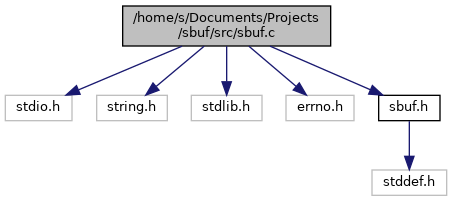
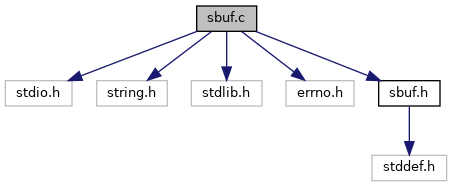
small theme change and making sure it gets full implementation details in dox

diff --git a/html/navtreeindex0.js b/html/navtreeindex0.js
@@ -1,9 +1,58 @@
 var NAVTREEINDEX0 =
 {
+"annotated.html":[1,0],
+"classes.html":[1,1],
+"files.html":[2,0],
+"functions.html":[1,2,0],
+"functions_vars.html":[1,2,1],
+"globals.html":[2,1,0],
+"globals_defs.html":[2,1,3],
+"globals_func.html":[2,1,1],
+"globals_type.html":[2,1,2],
 "index.html":[],
 "index.html#autotoc_md1":[0],
 "index.html#autotoc_md2":[0,0],
 "index.html#autotoc_md3":[0,1],
 "index.html#autotoc_md4":[0,2],
-"pages.html":[]
+"pages.html":[],
+"sbuf_8c.html":[2,0,0],
+"sbuf_8c.html#a0f0993a140a30062a6a9d1b83278deac":[2,0,0,14],
+"sbuf_8c.html#a121c455cc37aaf58b7d702cdeac4d3a4":[2,0,0,11],
+"sbuf_8c.html#a1b945c8cd7f9593f1eb296d722a9eb61":[2,0,0,5],
+"sbuf_8c.html#a2197c035a2f0e9262b010da37ea15529":[2,0,0,15],
+"sbuf_8c.html#a3024ccd4a9af5109d24e6c57565d74a1":[2,0,0,0],
+"sbuf_8c.html#a38f9811bf4346e545737b0d03cf804d9":[2,0,0,9],
+"sbuf_8c.html#a3bff446f6d5793b6ffbd3be43502f13d":[2,0,0,12],
+"sbuf_8c.html#a3fae5b743bcb995335884913d7bee8c6":[2,0,0,13],
+"sbuf_8c.html#a5213bf2df22b0def06315df63b6e3284":[2,0,0,2],
+"sbuf_8c.html#a67bf9ff4b6ae129499673d3071f96ecd":[2,0,0,8],
+"sbuf_8c.html#a9e85e5beeaafe1275e1c329186ac4fdd":[2,0,0,1],
+"sbuf_8c.html#ac51c3760535684841d194e60c383e1d0":[2,0,0,3],
+"sbuf_8c.html#ac6b96c08bbe9b6d46a0e89597e62229a":[2,0,0,7],
+"sbuf_8c.html#ad0bdc83560191562dae2b78ecea40d7e":[2,0,0,6],
+"sbuf_8c.html#ae435ba9ec44080bab25c1ec8bcd7fe55":[2,0,0,4],
+"sbuf_8c.html#ae43e253921f7a877cc9dc4d25608a10c":[2,0,0,10],
+"sbuf_8c_source.html":[2,0,0],
+"sbuf_8h.html":[2,0,1],
+"sbuf_8h.html#a0f0993a140a30062a6a9d1b83278deac":[2,0,1,15],
+"sbuf_8h.html#a121c455cc37aaf58b7d702cdeac4d3a4":[2,0,1,12],
+"sbuf_8h.html#a18ed3e3dde4d41bdfd0cb49afcd0f08f":[2,0,1,1],
+"sbuf_8h.html#a1b945c8cd7f9593f1eb296d722a9eb61":[2,0,1,6],
+"sbuf_8h.html#a2197c035a2f0e9262b010da37ea15529":[2,0,1,16],
+"sbuf_8h.html#a38f9811bf4346e545737b0d03cf804d9":[2,0,1,10],
+"sbuf_8h.html#a3fae5b743bcb995335884913d7bee8c6":[2,0,1,14],
+"sbuf_8h.html#a5213bf2df22b0def06315df63b6e3284":[2,0,1,3],
+"sbuf_8h.html#a67bf9ff4b6ae129499673d3071f96ecd":[2,0,1,9],
+"sbuf_8h.html#a7d39d1e4de7084c190e3526a0eccffc8":[2,0,1,5],
+"sbuf_8h.html#a98e49d2682377da64f05326ce6507a6c":[2,0,1,13],
+"sbuf_8h.html#a9e85e5beeaafe1275e1c329186ac4fdd":[2,0,1,2],
+"sbuf_8h.html#ac6b96c08bbe9b6d46a0e89597e62229a":[2,0,1,8],
+"sbuf_8h.html#ad0bdc83560191562dae2b78ecea40d7e":[2,0,1,7],
+"sbuf_8h.html#adbc45909edb3b9d27d0a766a3efa3b2d":[2,0,1,4],
+"sbuf_8h.html#ae43e253921f7a877cc9dc4d25608a10c":[2,0,1,11],
+"sbuf_8h_source.html":[2,0,1],
+"structsbuf.html":[1,0,0],
+"structsbuf.html#a1acdda4d02d45a8caac3b29393bec478":[1,0,0,0],
+"structsbuf.html#ab76e77c25188e04830319d8479866b42":[1,0,0,1],
+"structsbuf.html#adc79a68252da5d02507e6a089e0dbd22":[1,0,0,2]
 };

diff --git a/html/sbuf_8h.html b/html/sbuf_8h.html
@@ -6,7 +6,7 @@
 <meta http-equiv="X-UA-Compatible" content="IE=9"/>
 <meta name="generator" content="Doxygen 1.8.17"/>
 <meta name="viewport" content="width=device-width, initial-scale=1"/>
-<title>sbuf: /home/s/Documents/Projects/sbuf/src/sbuf.h File Reference</title>
+<title>sbuf: sbuf.h File Reference</title>
 <link href="tabs.css" rel="stylesheet" type="text/css"/>
 <script type="text/javascript" src="jquery.js"></script>
 <script type="text/javascript" src="dynsections.js"></script>
@@ -100,19 +100,19 @@ $(document).ready(function(){initNavTree('sbuf_8h.html',''); initResizable(); })
 </div><div class="textblock"><div class="dynheader">
 Include dependency graph for sbuf.h:</div>
 <div class="dyncontent">
-<div class="center"><img src="sbuf_8h__incl.png" border="0" usemap="#_2home_2s_2Documents_2Projects_2sbuf_2src_2sbuf_8h" alt=""/></div>
-<map name="_2home_2s_2Documents_2Projects_2sbuf_2src_2sbuf_8h" id="_2home_2s_2Documents_2Projects_2sbuf_2src_2sbuf_8h">
-<area shape="rect" title=" " alt="" coords="5,5,213,47"/>
-<area shape="rect" title=" " alt="" coords="72,95,147,121"/>
+<div class="center"><img src="sbuf_8h__incl.png" border="0" usemap="#sbuf_8h" alt=""/></div>
+<map name="sbuf_8h" id="sbuf_8h">
+<area shape="rect" title=" " alt="" coords="12,5,73,32"/>
+<area shape="rect" title=" " alt="" coords="5,80,80,107"/>
 </map>
 </div>
 </div><div class="textblock"><div class="dynheader">
 This graph shows which files directly or indirectly include this file:</div>
 <div class="dyncontent">
-<div class="center"><img src="sbuf_8h__dep__incl.png" border="0" usemap="#_2home_2s_2Documents_2Projects_2sbuf_2src_2sbuf_8hdep" alt=""/></div>
-<map name="_2home_2s_2Documents_2Projects_2sbuf_2src_2sbuf_8hdep" id="_2home_2s_2Documents_2Projects_2sbuf_2src_2sbuf_8hdep">
-<area shape="rect" title=" " alt="" coords="5,5,213,47"/>
-<area shape="rect" href="sbuf_8c.html" title=" " alt="" coords="5,95,213,136"/>
+<div class="center"><img src="sbuf_8h__dep__incl.png" border="0" usemap="#sbuf_8hdep" alt=""/></div>
+<map name="sbuf_8hdep" id="sbuf_8hdep">
+<area shape="rect" title=" " alt="" coords="5,5,67,32"/>
+<area shape="rect" href="sbuf_8c.html" title=" " alt="" coords="6,80,66,107"/>
 </map>
 </div>
 </div>

diff --git a/html/sbuf_8c.html b/html/sbuf_8c.html
@@ -6,7 +6,7 @@
 <meta http-equiv="X-UA-Compatible" content="IE=9"/>
 <meta name="generator" content="Doxygen 1.8.17"/>
 <meta name="viewport" content="width=device-width, initial-scale=1"/>
-<title>sbuf: /home/s/Documents/Projects/sbuf/src/sbuf.c File Reference</title>
+<title>sbuf: sbuf.c File Reference</title>
 <link href="tabs.css" rel="stylesheet" type="text/css"/>
 <script type="text/javascript" src="jquery.js"></script>
 <script type="text/javascript" src="dynsections.js"></script>
@@ -103,15 +103,15 @@ $(document).ready(function(){initNavTree('sbuf_8c.html',''); initResizable(); })
 </div><div class="textblock"><div class="dynheader">
 Include dependency graph for sbuf.c:</div>
 <div class="dyncontent">
-<div class="center"><img src="sbuf_8c__incl.png" border="0" usemap="#_2home_2s_2Documents_2Projects_2sbuf_2src_2sbuf_8c" alt=""/></div>
-<map name="_2home_2s_2Documents_2Projects_2sbuf_2src_2sbuf_8c" id="_2home_2s_2Documents_2Projects_2sbuf_2src_2sbuf_8c">
-<area shape="rect" title=" " alt="" coords="123,5,331,47"/>
-<area shape="rect" title=" " alt="" coords="5,95,72,121"/>
-<area shape="rect" title=" " alt="" coords="97,95,167,121"/>
-<area shape="rect" title=" " alt="" coords="191,95,262,121"/>
-<area shape="rect" title=" " alt="" coords="286,95,354,121"/>
-<area shape="rect" href="sbuf_8h.html" title=" " alt="" coords="379,95,440,121"/>
-<area shape="rect" title=" " alt="" coords="372,169,447,196"/>
+<div class="center"><img src="sbuf_8c__incl.png" border="0" usemap="#sbuf_8c" alt=""/></div>
+<map name="sbuf_8c" id="sbuf_8c">
+<area shape="rect" title=" " alt="" coords="197,5,257,32"/>
+<area shape="rect" title=" " alt="" coords="5,80,72,107"/>
+<area shape="rect" title=" " alt="" coords="97,80,167,107"/>
+<area shape="rect" title=" " alt="" coords="191,80,262,107"/>
+<area shape="rect" title=" " alt="" coords="286,80,354,107"/>
+<area shape="rect" href="sbuf_8h.html" title=" " alt="" coords="379,80,440,107"/>
+<area shape="rect" title=" " alt="" coords="372,155,447,181"/>
 </map>
 </div>
 </div>

diff --git a/html/files.html b/html/files.html
@@ -93,10 +93,9 @@ $(document).ready(function(){initNavTree('files.html',''); initResizable(); });
 </div><!--header-->
 <div class="contents">
 <div class="textblock">Here is a list of all files with brief descriptions:</div><div class="directory">
-<div class="levels">[detail level <span onclick="javascript:toggleLevel(1);">1</span><span onclick="javascript:toggleLevel(2);">2</span>]</div><table class="directory">
-<tr id="row_0_" class="even"><td class="entry"><span style="width:0px;display:inline-block;">&#160;</span><span id="arr_0_" class="arrow" onclick="toggleFolder('0_')">&#9660;</span><span id="img_0_" class="iconfopen" onclick="toggleFolder('0_')">&#160;</span><a class="el" href="dir_68267d1309a1af8e8297ef4c3efbcdba.html" target="_self">src</a></td><td class="desc"></td></tr>
-<tr id="row_0_0_"><td class="entry"><span style="width:32px;display:inline-block;">&#160;</span><a href="sbuf_8c_source.html"><span class="icondoc"></span></a><a class="el" href="sbuf_8c.html" target="_self">sbuf.c</a></td><td class="desc"></td></tr>
-<tr id="row_0_1_" class="even"><td class="entry"><span style="width:32px;display:inline-block;">&#160;</span><a href="sbuf_8h_source.html"><span class="icondoc"></span></a><a class="el" href="sbuf_8h.html" target="_self">sbuf.h</a></td><td class="desc"></td></tr>
+<table class="directory">
+<tr id="row_0_" class="even"><td class="entry"><span style="width:16px;display:inline-block;">&#160;</span><a href="sbuf_8c_source.html"><span class="icondoc"></span></a><a class="el" href="sbuf_8c.html" target="_self">sbuf.c</a></td><td class="desc"></td></tr>
+<tr id="row_1_"><td class="entry"><span style="width:16px;display:inline-block;">&#160;</span><a href="sbuf_8h_source.html"><span class="icondoc"></span></a><a class="el" href="sbuf_8h.html" target="_self">sbuf.h</a></td><td class="desc"></td></tr>
 </table>
 </div><!-- directory -->
 </div><!-- contents -->

diff --git a/html/doxygen-awesome.css b/html/doxygen-awesome.css
@@ -180,8 +180,8 @@ html {
         color-scheme: dark;
 
         --primary-color: #ff8811;
-        --primary-dark-color: #f26300;
-        --primary-light-color: #ffc310;
+        --primary-dark-color: #f05300;
+        --primary-light-color: #ffaa00;
 
         --box-shadow: 0 2px 8px 0 rgba(0,0,0,.35);
 
@@ -193,18 +193,18 @@ html {
         --page-foreground-color: #d8c3ac;
         --page-secondary-foreground-color: #c0b090;
         --separator-color: #38393b;
-        --side-nav-background: #252628;
+        --side-nav-background: #2b2e35;
 
         --code-background: #2a2e35;
 
         --tablehead-background: #2a2c2f;
 
-        --blockquote-background: #222325;
+        --blockquote-background: #1a1e2c;
         --blockquote-foreground: #ce9c62;
 
-        --warning-color: #2e1917;
-        --warning-color-dark: #ad2617;
-        --warning-color-darker: #f5b1aa;
+        --warning-color: #2E1917;
+        --warning-color-dark: #AD2617;
+        --warning-color-darker: #F5B1AA;
         --note-color: #3b2e04;
         --note-color-dark: #f1b602;
         --note-color-darker: #CEB670;
@@ -223,16 +223,16 @@ html {
 
         --fragment-background: #2B2E35;
         --fragment-foreground: #D8C3AC;
-        --fragment-keyword: #B74320;
-        --fragment-keywordtype: #E08000;
+        --fragment-keyword: #f05300;
+        --fragment-keywordtype: #FF8811;
         --fragment-keywordflow: #419499;
-        --fragment-token: #A4184E;
+        --fragment-token: #B41c5E;
         --fragment-comment: #999999;
         --fragment-link: #C9C4BB;
         --fragment-preprocessor: #65CABE;
         --fragment-linenumber-color: #CCCCCC;
         --fragment-linenumber-background: #35393C;
-        --fragment-linenumber-border: #1f1f1f;
+        --fragment-linenumber-border: #1F1F1F;
     }
 }
 

diff --git a/html/menudata.js b/html/menudata.js
@@ -21,4 +21,27 @@ with this program; if not, write to the Free Software Foundation, Inc.,
 for the JavaScript code in this file
 */
 var menudata={children:[
-{text:"Main Page",url:"index.html"}]}
+{text:"Main Page",url:"index.html"},
+{text:"Classes",url:"annotated.html",children:[
+{text:"Class List",url:"annotated.html"},
+{text:"Class Index",url:"classes.html"},
+{text:"Class Members",url:"functions.html",children:[
+{text:"All",url:"functions.html"},
+{text:"Variables",url:"functions_vars.html"}]}]},
+{text:"Files",url:"files.html",children:[
+{text:"File List",url:"files.html"},
+{text:"File Members",url:"globals.html",children:[
+{text:"All",url:"globals.html",children:[
+{text:"_",url:"globals.html#index__5F"},
+{text:"a",url:"globals.html#index_a"},
+{text:"c",url:"globals.html#index_c"},
+{text:"f",url:"globals.html#index_f"},
+{text:"g",url:"globals.html#index_g"},
+{text:"i",url:"globals.html#index_i"},
+{text:"n",url:"globals.html#index_n"},
+{text:"p",url:"globals.html#index_p"},
+{text:"r",url:"globals.html#index_r"},
+{text:"s",url:"globals.html#index_s"}]},
+{text:"Functions",url:"globals_func.html"},
+{text:"Typedefs",url:"globals_type.html"},
+{text:"Macros",url:"globals_defs.html"}]}]}]}

diff --git a/html/navtreedata.js b/html/navtreedata.js
@@ -27,13 +27,30 @@ var NAVTREE =
       [ "compile", "index.html#autotoc_md2", null ],
       [ "install", "index.html#autotoc_md3", null ],
       [ "include", "index.html#autotoc_md4", null ]
+    ] ],
+    [ "Classes", "annotated.html", [
+      [ "Class List", "annotated.html", "annotated_dup" ],
+      [ "Class Index", "classes.html", null ],
+      [ "Class Members", "functions.html", [
+        [ "All", "functions.html", null ],
+        [ "Variables", "functions_vars.html", null ]
+      ] ]
+    ] ],
+    [ "Files", "files.html", [
+      [ "File List", "files.html", "files_dup" ],
+      [ "File Members", "globals.html", [
+        [ "All", "globals.html", null ],
+        [ "Functions", "globals_func.html", null ],
+        [ "Typedefs", "globals_type.html", null ],
+        [ "Macros", "globals_defs.html", null ]
+      ] ]
     ] ]
   ] ]
 ];
 
 var NAVTREEINDEX =
 [
-"index.html"
+"annotated.html"
 ];
 
 var SYNCONMSG = 'click to disable panel synchronisation';

diff --git a/html/index.html b/html/index.html
@@ -109,11 +109,12 @@ install</h2>
 <div class="line">sudo cp ./src/sbuf.h /usr/include</div>
 </div><!-- fragment --><h2><a class="anchor" id="autotoc_md4"></a>
 include</h2>
-<div class="fragment"><div class="line"><span class="preprocessor">#include &lt;sbuf.h&gt;</span></div>
+<div class="fragment"><div class="line"><span class="preprocessor">#include &lt;<a class="code" href="sbuf_8h.html">sbuf.h</a>&gt;</span></div>
 </div><!-- fragment --><p>and remember to link when you compile </p><div class="fragment"><div class="line">gcc prog.c -Lsbuf</div>
 </div><!-- fragment --> </div></div><!-- PageDoc -->
 </div><!-- contents -->
 </div><!-- doc-content -->
+<div class="ttc" id="asbuf_8h_html"><div class="ttname"><a href="sbuf_8h.html">sbuf.h</a></div></div>
 <!-- start footer part -->
 <div id="nav-path" class="navpath"><!-- id is needed for treeview function! -->
   <ul>

diff --git a/html/search/searchdata.js b/html/search/searchdata.js
@@ -1,21 +1,36 @@
 var indexSectionsWithContent =
 {
-  0: "ds",
-  1: "d",
-  2: "s"
+  0: "_abcdfgilnprs",
+  1: "s",
+  2: "ds",
+  3: "acfginprs",
+  4: "bcl",
+  5: "s",
+  6: "_",
+  7: "s"
 };
 
 var indexSectionNames =
 {
   0: "all",
-  1: "files",
-  2: "pages"
+  1: "classes",
+  2: "files",
+  3: "functions",
+  4: "variables",
+  5: "typedefs",
+  6: "defines",
+  7: "pages"
 };
 
 var indexSectionLabels =
 {
   0: "All",
-  1: "Files",
-  2: "Pages"
+  1: "Classes",
+  2: "Files",
+  3: "Functions",
+  4: "Variables",
+  5: "Typedefs",
+  6: "Macros",
+  7: "Pages"
 };
 

diff --git a/html/dir_68267d1309a1af8e8297ef4c3efbcdba.html b/html/dir_68267d1309a1af8e8297ef4c3efbcdba.html
@@ -6,7 +6,7 @@
 <meta http-equiv="X-UA-Compatible" content="IE=9"/>
 <meta name="generator" content="Doxygen 1.8.17"/>
 <meta name="viewport" content="width=device-width, initial-scale=1"/>
-<title>sbuf: /home/s/Documents/Projects/sbuf/src Directory Reference</title>
+<title>sbuf: src Directory Reference</title>
 <link href="tabs.css" rel="stylesheet" type="text/css"/>
 <script type="text/javascript" src="jquery.js"></script>
 <script type="text/javascript" src="dynsections.js"></script>

diff --git a/html/sbuf_8c_source.html b/html/sbuf_8c_source.html
@@ -6,7 +6,7 @@
 <meta http-equiv="X-UA-Compatible" content="IE=9"/>
 <meta name="generator" content="Doxygen 1.8.17"/>
 <meta name="viewport" content="width=device-width, initial-scale=1"/>
-<title>sbuf: /home/s/Documents/Projects/sbuf/src/sbuf.c Source File</title>
+<title>sbuf: sbuf.c Source File</title>
 <link href="tabs.css" rel="stylesheet" type="text/css"/>
 <script type="text/javascript" src="jquery.js"></script>
 <script type="text/javascript" src="dynsections.js"></script>

diff --git a/html/sbuf_8h_source.html b/html/sbuf_8h_source.html
@@ -6,7 +6,7 @@
 <meta http-equiv="X-UA-Compatible" content="IE=9"/>
 <meta name="generator" content="Doxygen 1.8.17"/>
 <meta name="viewport" content="width=device-width, initial-scale=1"/>
-<title>sbuf: /home/s/Documents/Projects/sbuf/src/sbuf.h Source File</title>
+<title>sbuf: sbuf.h Source File</title>
 <link href="tabs.css" rel="stylesheet" type="text/css"/>
 <script type="text/javascript" src="jquery.js"></script>
 <script type="text/javascript" src="dynsections.js"></script>
